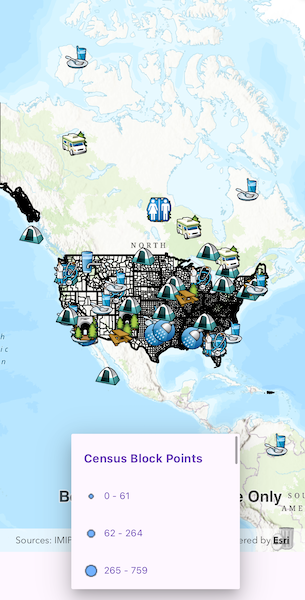
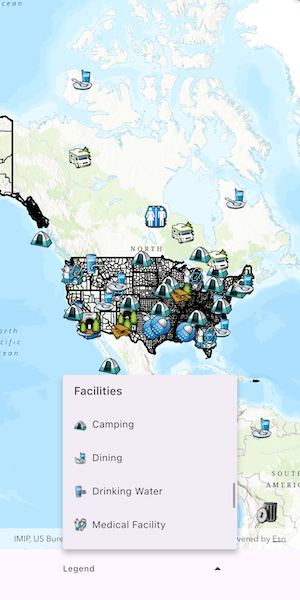
prevent the dropdown from changing the value

diff --git a/lib/samples/show_legend/show_legend.dart b/lib/samples/show_legend/show_legend.dart
@@ -90,6 +90,8 @@ class _ShowLegendState extends State<ShowLegend> with SampleStateSupport {
     // Load the image and feature layers.
     await featureLayer.load();
     await imageLayer.load();
+    if (!mounted) return;
+
     // Create a list to store operational layers and populate it with image and feature layers.
     final operationalLayersList = <LayerContent>[
       ...imageLayer.subLayerContents,
@@ -98,6 +100,8 @@ class _ShowLegendState extends State<ShowLegend> with SampleStateSupport {
 
     // Create a list to store dropdown items.
     final legendsDropDown = <DropdownMenuEntry<LegendInfo>>[];
+    // To use a DropdownMenu to present the legend, we disable each entry but use the enabled text style.
+    final textTheme = Theme.of(context).textTheme;
     // Get the legend info for each layer and add it to the legends dropdown list.
     for (final layer in operationalLayersList) {
       // Get the legend info for the current layer.
@@ -107,10 +111,8 @@ class _ShowLegendState extends State<ShowLegend> with SampleStateSupport {
         DropdownMenuEntry(
           value: layerLegends.first,
           label: layer.name,
-          labelWidget: Text(
-            layer.name,
-            style: const TextStyle(fontSize: 15, fontWeight: FontWeight.bold),
-          ),
+          enabled: false,
+          labelWidget: Text(layer.name, style: textTheme.titleMedium),
         ),
       );
 
@@ -131,6 +133,7 @@ class _ShowLegendState extends State<ShowLegend> with SampleStateSupport {
           DropdownMenuEntry(
             value: legend,
             label: legend.name,
+            enabled: false,
             labelWidget: Row(
               spacing: 8,
               children: [
@@ -140,7 +143,7 @@ class _ShowLegendState extends State<ShowLegend> with SampleStateSupport {
                 else
                   const SizedBox.shrink(),
                 // Add the legend name to the dropdown list.
-                Text(legend.name, style: const TextStyle(fontSize: 12)),
+                Text(legend.name, style: textTheme.bodyMedium),
               ],
             ),
           ),
